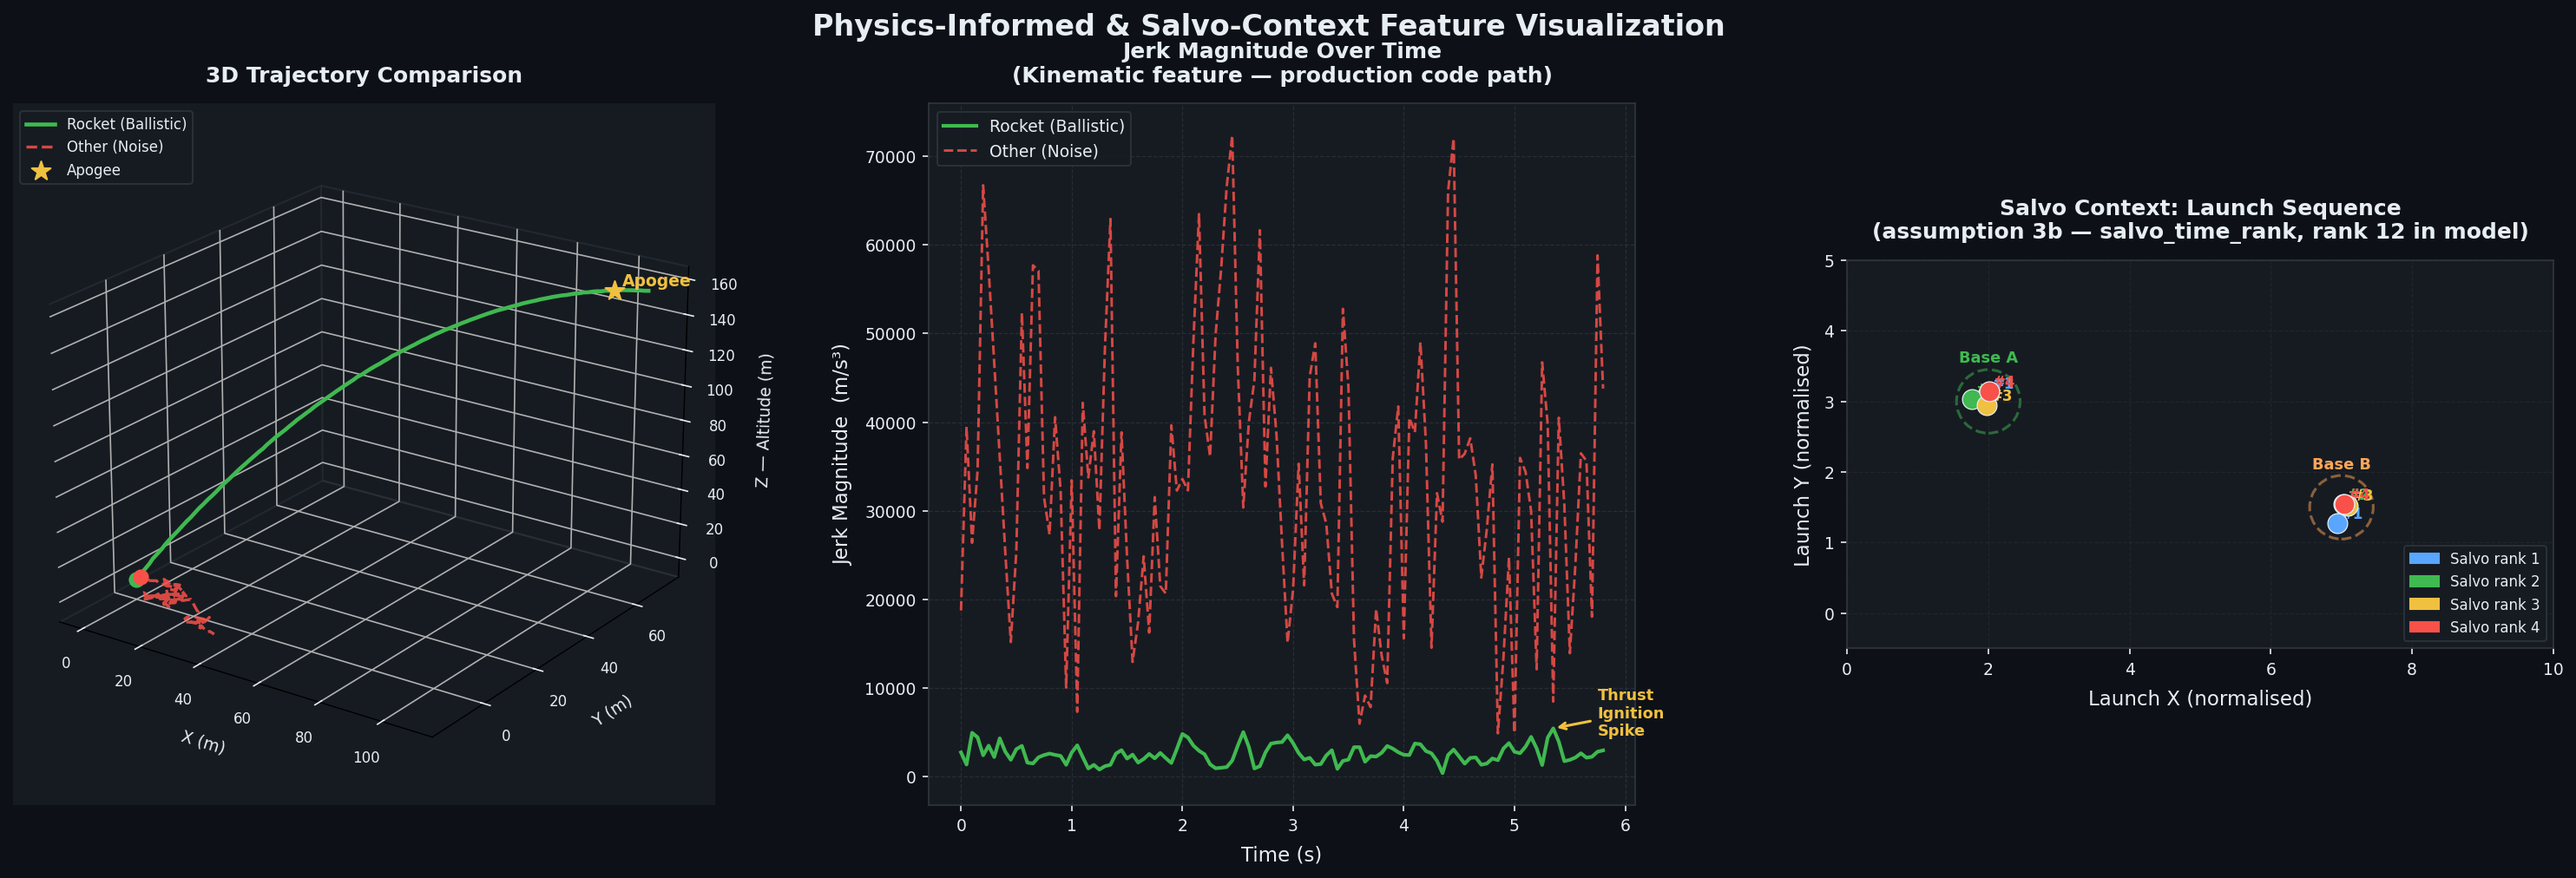
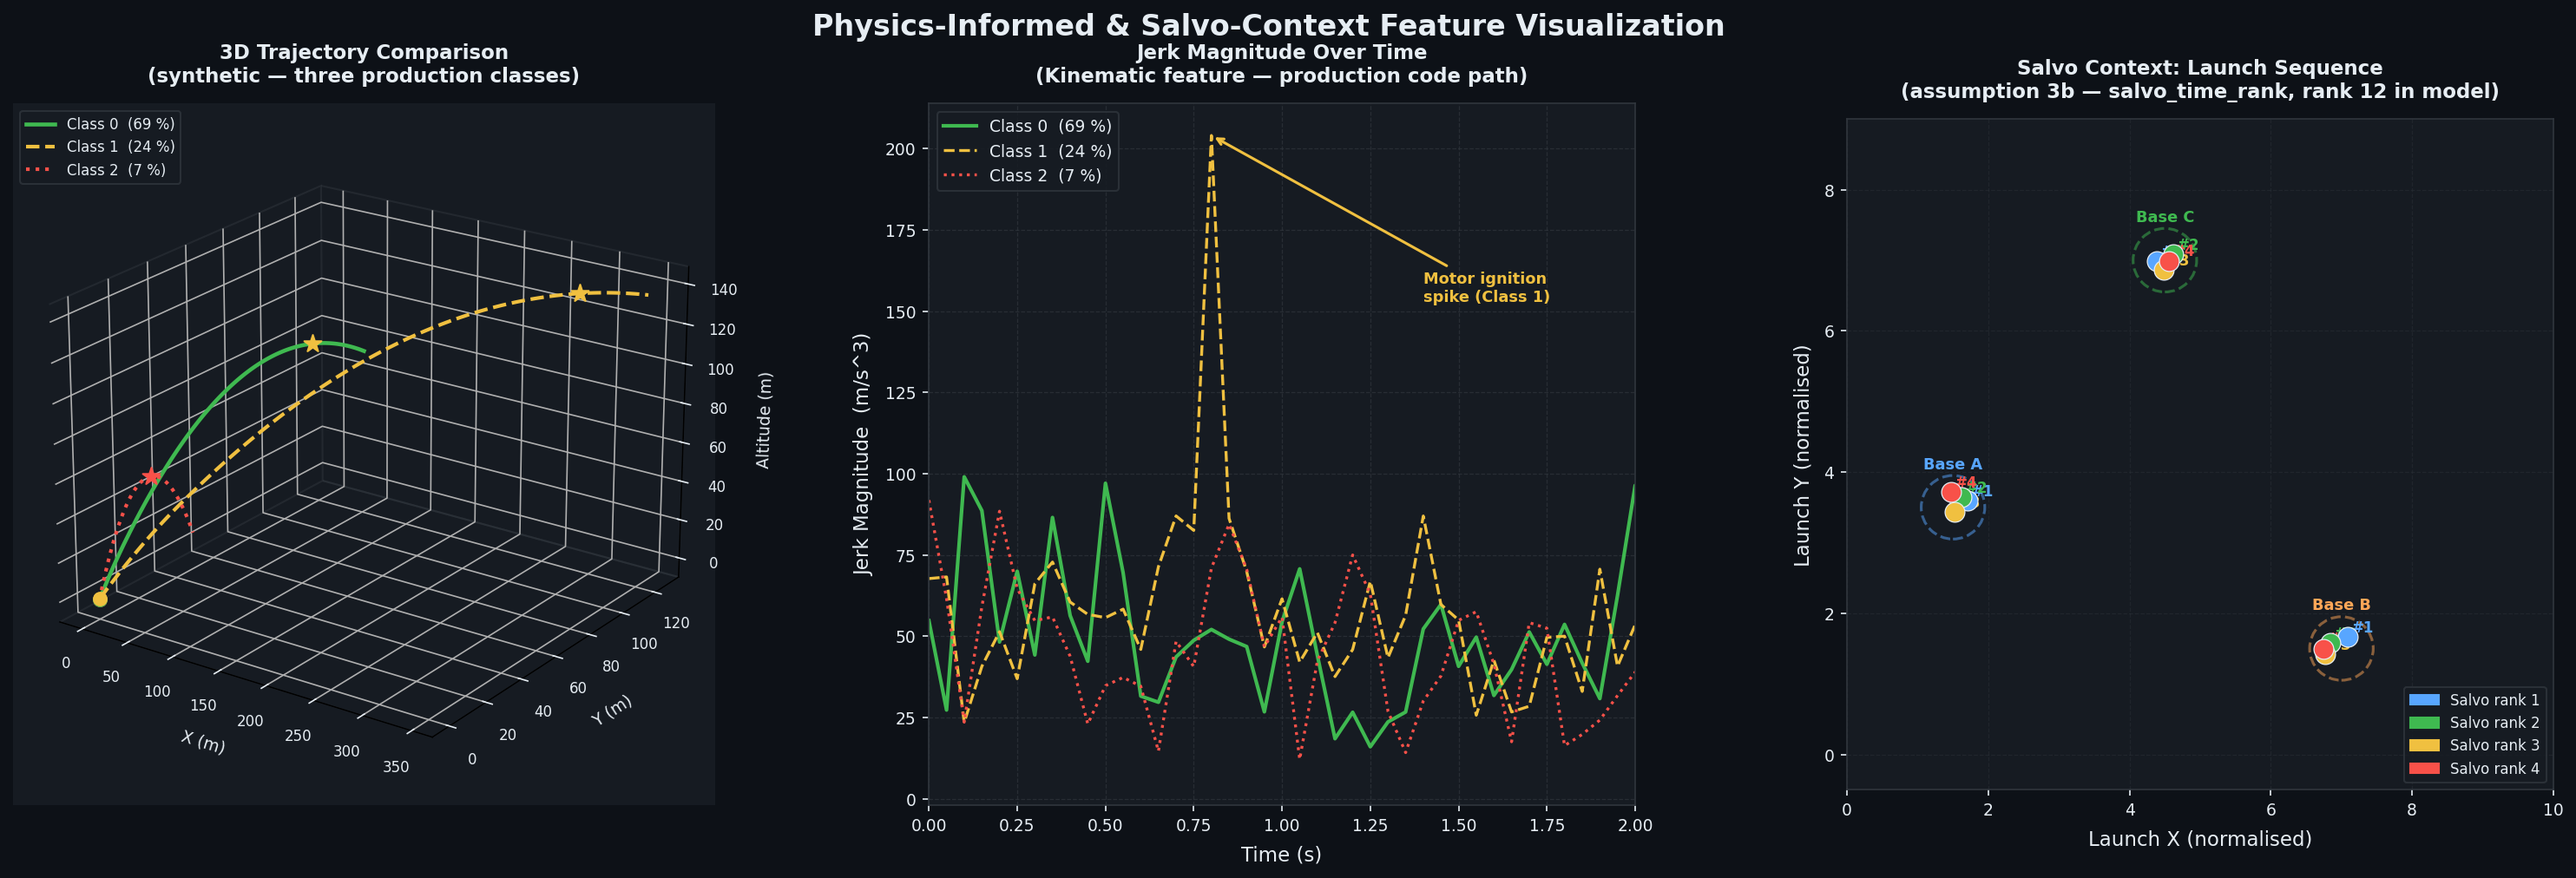
fix(visualize): replace binary rocket-vs-noise with 3-class visualization
The old demo.png showed "Rocket (Ballistic)" vs "Other (Noise)", implying a
binary classifier.  The production model is a 3-class classifier.  Fixed:

- Replace generate_rocket/generate_noise with generate_class0/1/2, each
  with distinct speed/angle/thrust profiles (moderate arc 69%, long-range
  flat 24%, steep short-range 7%).  Class colours match the Streamlit app.
- Fix position noise: reduced 0.05 -> 0.001 m to prevent sigma/dt^3
  amplification (~400 m/s^3) from burying the thrust signal in the jerk panel.
- Avoid ground-clamp artifact: Class 2 speed raised 30->35 m/s so the
  trajectory stays airborne within the 6s simulation window (t_land=6.9s).
- Fix jerk annotation: "Thrust-end spike" was misleading; relabeled to
  "Motor ignition spike" and jerk panel x-axis limited to first 2s.
- Salvo panel: add Base C (three bases instead of two) for realism.

diff --git a/research/visualize.py b/research/visualize.py
@@ -2,12 +2,15 @@
 
 Generates ``assets/demo.png`` containing three subplots:
 
-    - Left:   3D trajectory comparison — ballistic Rocket (solid green) vs.
-              stochastic Noise/Other (dashed red), with apogee marked.
-    - Centre: Jerk Magnitude time-series computed via finite differences,
-              illustrating the sharp ignition spike that distinguishes
-              propelled rockets from passive or erratic objects.
-    - Right:  Salvo context — top-down launch-position view of two synthetic
+    - Left:   3D trajectory comparison — all three rocket classes produced by
+              the production model: Class 0 (moderate arc, 69 %),
+              Class 1 (long-range flat, 24 %), Class 2 (steep short-range, 7 %).
+              Apogee marked per class.  Colours match the Streamlit demo.
+    - Centre: Jerk Magnitude time-series for all three classes, computed via
+              ``_compute_derivatives`` (production code path).  The magnitude
+              and timing of the thrust-ignition spike differ across classes and
+              are among the key kinematic discriminators.
+    - Right:  Salvo context — top-down launch-position view of three synthetic
               rebel bases, each firing a 4-rocket salvo in sequence.
               Illustrates domain assumption 3b (rockets fired in salvos) and
               the ``salvo_time_rank`` feature (rank 12 in production model).
@@ -38,57 +41,104 @@ logger = logging.getLogger(__name__)
 RNG = np.random.default_rng(seed=42)
 
 # ---------------------------------------------------------------------------
-# Colour palette
+# Colour palette — class colours match the Streamlit app (app.py CLASS_COLORS)
 # ---------------------------------------------------------------------------
 DARK_BG = "#0d1117"
 PANEL_BG = "#161b22"
 GRID_COLOR = "#30363d"
 TEXT_COLOR = "#e6edf3"
-GREEN = "#3fb950"
-RED = "#f85149"
-GOLD = "#f0c040"
-BLUE = "#58a6ff"
-ORANGE = "#ffa657"
+GREEN = "#3fb950"    # Class 0
+GOLD = "#f0c040"     # Class 1
+RED = "#f85149"      # Class 2
+BLUE = "#58a6ff"     # salvo base accent
+ORANGE = "#ffa657"   # salvo base accent
+
+CLASS_COLOR = {0: GREEN, 1: GOLD, 2: RED}
+CLASS_LABEL = {0: "Class 0  (69 %)", 1: "Class 1  (24 %)", 2: "Class 2  (7 %)"}
 
 # ---------------------------------------------------------------------------
-# Synthetic trajectory generation
+# Synthetic trajectory generation — one generator per class
 # ---------------------------------------------------------------------------
 
+_DT = 0.05
+_N = 120
+# Small position noise: 0.001 m keeps finite-difference noise amplification
+# (~sigma/dt^3) below ~35 m/s^3 so the thrust-ignition spike dominates.
+_POS_NOISE = 0.001
 
-def generate_rocket(n: int = 120, dt: float = 0.05) -> tuple[np.ndarray, np.ndarray]:
-    """Generate a synthetic ballistic trajectory with an initial thrust phase."""
+
+def _ballistic(
+    speed: float,
+    theta_deg: float,
+    phi_deg: float,
+    thrust_accel: float,
+    thrust_frac: float,
+    n: int = _N,
+    dt: float = _DT,
+) -> tuple[np.ndarray, np.ndarray]:
+    """Core ballistic trajectory shared by all three class generators.
+
+    Args:
+        speed: Launch speed magnitude in m/s.
+        theta_deg: Elevation angle in degrees above horizontal.
+        phi_deg: Azimuth angle in degrees from x-axis.
+        thrust_accel: Peak motor-burn acceleration in m/s^2 (linearly ramped down).
+        thrust_frac: Fraction of total flight time over which thrust is active.
+        n: Number of position samples.
+        dt: Time step in seconds.
+
+    Returns:
+        pos: (n, 3) position array in metres.
+        dt_arr: (n-1,) constant dt array for ``_compute_derivatives``.
+    """
     g = 9.81
-    v0x, v0y, v0z = 18.0, 12.0, 55.0
-    thrust_duration = 0.10
+    theta = np.radians(theta_deg)
+    phi = np.radians(phi_deg)
+    v0z = speed * np.sin(theta)
+    v0h = speed * np.cos(theta)
+    v0x = v0h * np.cos(phi)
+    v0y = v0h * np.sin(phi)
 
     t = np.linspace(0, n * dt, n)
     x = v0x * t
     y = v0y * t
     z = v0z * t - 0.5 * g * t**2
 
-    thrust_mask = t < thrust_duration * t[-1]
-    thrust_profile = np.where(thrust_mask, 80.0 * (1 - t / (thrust_duration * t[-1])), 0.0)
+    thrust_end = max(thrust_frac * t[-1], 1e-9)
+    thrust_profile = np.where(t <= thrust_end, thrust_accel * (1.0 - t / thrust_end), 0.0)
     z += np.cumsum(thrust_profile) * dt**2
+    z = np.maximum(z, 0.0)
 
-    x += RNG.normal(0, 0.05, n)
-    y += RNG.normal(0, 0.05, n)
-    z += RNG.normal(0, 0.05, n)
+    x += RNG.normal(0, _POS_NOISE, n)
+    y += RNG.normal(0, _POS_NOISE, n)
+    z += RNG.normal(0, _POS_NOISE, n)
+    z = np.maximum(z, 0.0)
+    return np.column_stack([x, y, z]), np.full(n - 1, dt)
 
-    pos = np.column_stack([x, y, z])
-    return pos, np.full(n - 1, dt)
+
+def generate_class0(n: int = _N, dt: float = _DT) -> tuple[np.ndarray, np.ndarray]:
+    """Class 0 (69 %): Moderate speed, clear ballistic arc, standard motor burn."""
+    return _ballistic(
+        speed=55, theta_deg=60, phi_deg=25, thrust_accel=80, thrust_frac=0.10, n=n, dt=dt
+    )
 
 
-def generate_noise(n: int = 120, dt: float = 0.05) -> tuple[np.ndarray, np.ndarray]:
-    """Generate a high-jitter stochastic trajectory (non-ballistic object)."""
-    base_vx = RNG.uniform(5, 15)
-    base_vz = RNG.uniform(2, 8)
+def generate_class1(n: int = _N, dt: float = _DT) -> tuple[np.ndarray, np.ndarray]:
+    """Class 1 (24 %): Higher speed, flatter longer-range arc, prolonged strong thrust."""
+    return _ballistic(
+        speed=80, theta_deg=40, phi_deg=20, thrust_accel=160, thrust_frac=0.15, n=n, dt=dt
+    )
 
-    x = np.cumsum(base_vx * dt + RNG.normal(0, 1.2, n))
-    y = np.cumsum(RNG.normal(0, 1.0, n))
-    z = np.maximum(np.cumsum(base_vz * dt + RNG.normal(0, 1.8, n)), 0.0)
 
-    pos = np.column_stack([x, y, z])
-    return pos, np.full(n - 1, dt)
+def generate_class2(n: int = _N, dt: float = _DT) -> tuple[np.ndarray, np.ndarray]:
+    """Class 2 (7 %): Lower speed, steep short-range arc, minimal motor burn.
+
+    speed=35 chosen so t_land ≈ 6.9s > n*dt=6s, avoiding a ground-clamp
+    discontinuity that would create an artifact jerk spike inside the window.
+    """
+    return _ballistic(
+        speed=35, theta_deg=75, phi_deg=30, thrust_accel=25, thrust_frac=0.05, n=n, dt=dt
+    )
 
 
 def compute_jerk_magnitude(pos: np.ndarray, dt_arr: np.ndarray) -> np.ndarray:
@@ -105,21 +155,21 @@ def compute_jerk_magnitude(pos: np.ndarray, dt_arr: np.ndarray) -> np.ndarray:
 
 
 def generate_salvo_data() -> tuple[list, list]:
-    """Generate two synthetic rebel bases, each firing a 4-rocket salvo.
+    """Generate three synthetic rebel bases, each firing a 4-rocket salvo.
 
     Returns:
-        (bases, salvos) where each base is a dict with 'center' and 'color',
-        and each salvo is a list of (launch_x, launch_y, rank) tuples.
+        (bases, salvos) where each base is a dict with 'center', 'color', and
+        'label', and each salvo is a list of (launch_x, launch_y, rank) tuples.
     """
     bases = [
-        {"center": np.array([2.0, 3.0]), "color": GREEN, "label": "Base A"},
+        {"center": np.array([1.5, 3.5]), "color": BLUE, "label": "Base A"},
         {"center": np.array([7.0, 1.5]), "color": ORANGE, "label": "Base B"},
+        {"center": np.array([4.5, 7.0]), "color": GREEN, "label": "Base C"},
     ]
 
     salvos = []
     for base in bases:
         cx, cy = base["center"]
-        # 4 rockets per salvo: small spatial scatter around the base
         angles = RNG.uniform(0, 2 * np.pi, 4)
         radii = RNG.uniform(0.05, 0.25, 4)
         points = [
@@ -138,16 +188,24 @@ def generate_salvo_data() -> tuple[list, list]:
 
 def make_demo_plot(output_path: Path) -> None:
     """Render and save the three-panel physics + salvo feature visualization."""
-    rocket_pos, rocket_dt = generate_rocket()
-    noise_pos, noise_dt = generate_noise()
+    pos0, dt0 = generate_class0()
+    pos1, dt1 = generate_class1()
+    pos2, dt2 = generate_class2()
 
-    rocket_jerk = compute_jerk_magnitude(rocket_pos, rocket_dt)
-    noise_jerk = compute_jerk_magnitude(noise_pos, noise_dt)
+    jerk0 = compute_jerk_magnitude(pos0, dt0)
+    jerk1 = compute_jerk_magnitude(pos1, dt1)
+    jerk2 = compute_jerk_magnitude(pos2, dt2)
 
-    dt = rocket_dt[0]
-    t_jerk_rocket = np.arange(len(rocket_jerk)) * dt
-    t_jerk_noise = np.arange(len(noise_jerk)) * dt
-    apogee_idx = int(np.argmax(rocket_pos[:, 2]))
+    dt = _DT
+    t_jerk = np.arange(len(jerk0)) * dt  # all classes have same n, so same length
+
+    apogee = {
+        0: int(np.argmax(pos0[:, 2])),
+        1: int(np.argmax(pos1[:, 2])),
+        2: int(np.argmax(pos2[:, 2])),
+    }
+    positions = {0: pos0, 1: pos1, 2: pos2}
+    jerks = {0: jerk0, 1: jerk1, 2: jerk2}
 
     bases, salvos = generate_salvo_data()
 
@@ -179,41 +237,40 @@ def make_demo_plot(output_path: Path) -> None:
     for axis in [ax3d.xaxis, ax3d.yaxis, ax3d.zaxis]:
         axis.label.set_color(TEXT_COLOR)
 
-    ax3d.plot(*rocket_pos.T, color=GREEN, linewidth=2.2, label="Rocket (Ballistic)", zorder=3)
-    ax3d.plot(
-        *noise_pos.T,
-        color=RED,
-        linewidth=1.6,
-        linestyle="--",
-        alpha=0.85,
-        label="Other (Noise)",
-        zorder=2,
-    )
-    ax3d.scatter(*rocket_pos[0], color=GREEN, s=60, zorder=5, depthshade=False)
-    ax3d.scatter(*noise_pos[0], color=RED, s=60, zorder=5, depthshade=False)
-    ax3d.scatter(
-        *rocket_pos[apogee_idx],
-        color=GOLD,
-        s=120,
-        marker="*",
-        zorder=6,
-        depthshade=False,
-        label="Apogee",
-    )
-    ax3d.text(
-        rocket_pos[apogee_idx, 0] + 1.5,
-        rocket_pos[apogee_idx, 1] + 1.5,
-        rocket_pos[apogee_idx, 2] + 2.0,
-        "Apogee",
-        color=GOLD,
-        fontsize=9,
-        fontweight="bold",
-    )
+    linestyles = {0: "-", 1: "--", 2: ":"}
+    linewidths = {0: 2.2, 1: 2.0, 2: 2.0}
+
+    for cls in (0, 1, 2):
+        pos = positions[cls]
+        color = CLASS_COLOR[cls]
+        ax3d.plot(
+            *pos.T,
+            color=color,
+            linewidth=linewidths[cls],
+            linestyle=linestyles[cls],
+            label=CLASS_LABEL[cls],
+            zorder=3,
+        )
+        ax3d.scatter(*pos[0], color=color, s=50, zorder=5, depthshade=False)
+        aidx = apogee[cls]
+        ax3d.scatter(
+            *pos[aidx],
+            color=GOLD if cls == 0 else color,
+            s=100,
+            marker="*",
+            zorder=6,
+            depthshade=False,
+        )
+
     ax3d.set_xlabel("X (m)", labelpad=6, fontsize=9)
     ax3d.set_ylabel("Y (m)", labelpad=6, fontsize=9)
-    ax3d.set_zlabel("Z — Altitude (m)", labelpad=6, fontsize=9)
+    ax3d.set_zlabel("Altitude (m)", labelpad=6, fontsize=9)
     ax3d.set_title(
-        "3D Trajectory Comparison", color=TEXT_COLOR, fontsize=12, fontweight="bold", pad=12
+        "3D Trajectory Comparison\n(synthetic — three production classes)",
+        color=TEXT_COLOR,
+        fontsize=11,
+        fontweight="bold",
+        pad=12,
     )
     ax3d.legend(
         loc="upper left",
@@ -231,33 +288,41 @@ def make_demo_plot(output_path: Path) -> None:
         spine.set_edgecolor(GRID_COLOR)
     ax2d.grid(True, color=GRID_COLOR, linewidth=0.6, linestyle="--", alpha=0.7)
 
-    ax2d.plot(t_jerk_rocket, rocket_jerk, color=GREEN, linewidth=2.0, label="Rocket (Ballistic)")
-    ax2d.plot(
-        t_jerk_noise,
-        noise_jerk,
-        color=RED,
-        linewidth=1.4,
-        linestyle="--",
-        alpha=0.85,
-        label="Other (Noise)",
-    )
+    for cls in (0, 1, 2):
+        jerk = jerks[cls]
+        t_j = np.arange(len(jerk)) * dt
+        ax2d.plot(
+            t_j,
+            jerk,
+            color=CLASS_COLOR[cls],
+            linewidth=2.0 if cls == 0 else 1.6,
+            linestyle=linestyles[cls],
+            label=CLASS_LABEL[cls],
+        )
 
-    peak_idx = int(np.argmax(rocket_jerk))
+    # Annotate the Class 1 ignition spike (largest, most visible).
+    # Thrust ramps linearly from max → 0, so the abrupt acceleration step is
+    # at ignition (t≈0), not at thrust-end where acceleration is already ~0.
+    peak_idx = int(np.argmax(jerk1))
     ax2d.annotate(
-        "Thrust\nIgnition\nSpike",
-        xy=(t_jerk_rocket[peak_idx], rocket_jerk[peak_idx]),
-        xytext=(t_jerk_rocket[peak_idx] + 0.4, rocket_jerk[peak_idx] * 0.85),
+        "Motor ignition\nspike (Class 1)",
+        xy=(t_jerk[peak_idx], jerk1[peak_idx]),
+        xytext=(t_jerk[peak_idx] + 0.6, jerk1[peak_idx] * 0.75),
         color=GOLD,
         fontsize=8.5,
         fontweight="bold",
         arrowprops={"arrowstyle": "->", "color": GOLD, "lw": 1.5},
     )
+
+    # Focus on the first 2 s to keep the ignition spikes front-and-centre;
+    # jerk falls to near-zero after all thrust phases have ended.
+    ax2d.set_xlim(0, 2.0)
     ax2d.set_xlabel("Time (s)", color=TEXT_COLOR, fontsize=11, labelpad=6)
-    ax2d.set_ylabel("Jerk Magnitude  (m/s³)", color=TEXT_COLOR, fontsize=11, labelpad=6)
+    ax2d.set_ylabel("Jerk Magnitude  (m/s^3)", color=TEXT_COLOR, fontsize=11, labelpad=6)
     ax2d.set_title(
         "Jerk Magnitude Over Time\n(Kinematic feature — production code path)",
         color=TEXT_COLOR,
-        fontsize=12,
+        fontsize=11,
         fontweight="bold",
         pad=12,
     )
@@ -277,7 +342,6 @@ def make_demo_plot(output_path: Path) -> None:
         cx, cy = base["center"]
         color = base["color"]
 
-        # Base perimeter circle (geographic concentration — assumption 3c)
         circle = mpatches.Circle(
             (cx, cy),
             radius=0.45,
@@ -292,11 +356,9 @@ def make_demo_plot(output_path: Path) -> None:
             cx, cy + 0.55, base["label"], color=color, fontsize=8.5, fontweight="bold", ha="center"
         )
 
-        # Draw rockets in salvo order, connected by a dashed arrow sequence
         xs = [p[0] for p in salvo]
         ys = [p[1] for p in salvo]
 
-        # Arrows connecting rank 1→2→3→4
         for i in range(len(salvo) - 1):
             ax_s.annotate(
                 "",
@@ -305,13 +367,11 @@ def make_demo_plot(output_path: Path) -> None:
                 arrowprops={"arrowstyle": "->", "color": TEXT_COLOR, "lw": 0.9, "alpha": 0.55},
             )
 
-        # Scatter each rocket, coloured by rank
         for rx, ry, rank in salvo:
             rc = rank_colors[rank - 1]
             ax_s.scatter(rx, ry, s=120, color=rc, zorder=5, edgecolors=TEXT_COLOR, linewidths=0.6)
             ax_s.text(rx + 0.06, ry + 0.07, f"#{rank}", color=rc, fontsize=8, fontweight="bold")
 
-    # Legend for rank colours
     rank_handles = [
         mpatches.Patch(color=rank_colors[i], label=f"Salvo rank {i + 1}") for i in range(4)
     ]
@@ -329,13 +389,13 @@ def make_demo_plot(output_path: Path) -> None:
     ax_s.set_title(
         "Salvo Context: Launch Sequence\n(assumption 3b — salvo_time_rank, rank 12 in model)",
         color=TEXT_COLOR,
-        fontsize=12,
+        fontsize=11,
         fontweight="bold",
         pad=12,
     )
     ax_s.tick_params(axis="both", colors=TEXT_COLOR)
     ax_s.set_xlim(0, 10)
-    ax_s.set_ylim(-0.5, 5)
+    ax_s.set_ylim(-0.5, 9)
     ax_s.set_aspect("equal")
 
     # ── Suptitle ──────────────────────────────────────────────────────────────
